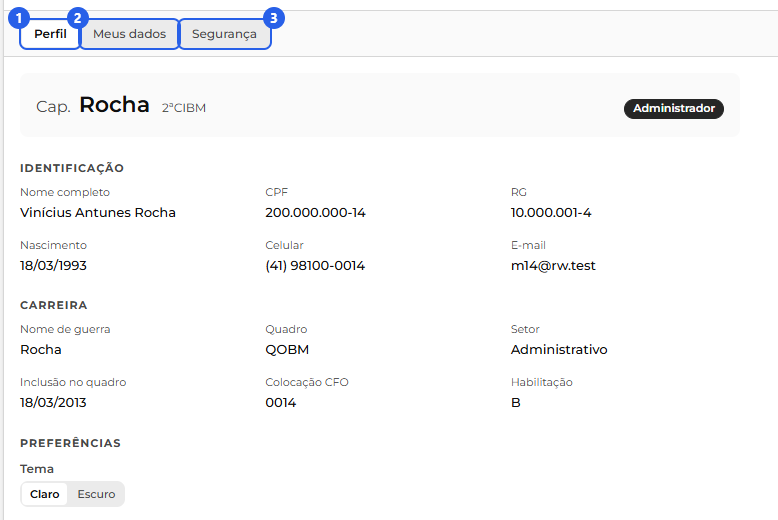
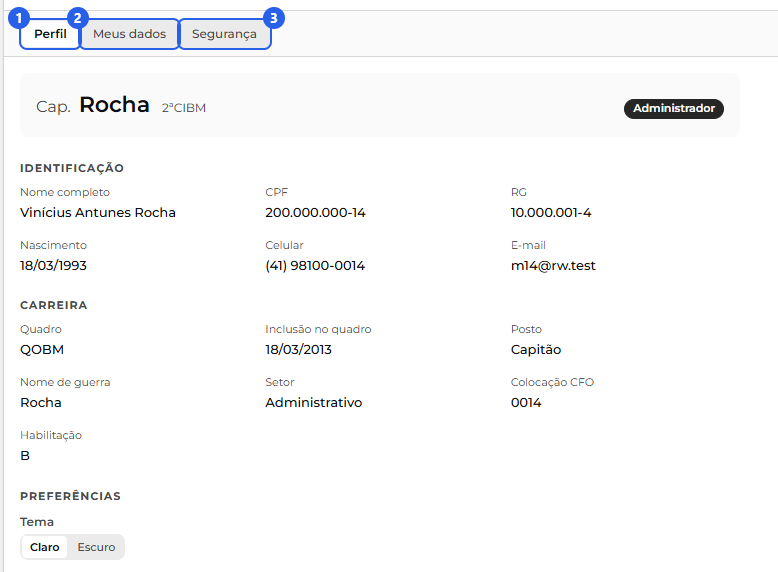
1

diff --git a/manual.html b/manual.html
@@ -392,7 +392,7 @@
                 </figcaption>
               </figure>
               <p>Ao confirmar, a sua conta é criada e você já entra com o seu CPF e a senha. <strong>E-mail, celular e senha valem na hora.</strong> Se você corrigir qualquer outro dado (nome, RG, nascimento e afins), a mudança passa pela aprovação de um administrador antes de valer, como uma correção comum. <strong>Posto, lotação e promoções</strong> aparecem só para conferência: eles mudam por promoção e transferência, feitas pelo administrador.</p>
-              <p><strong>Cadastro novo (CPF fora do sistema).</strong> Quando o seu CPF ainda não existe no sistema, você preenche a ficha inteira: os <strong>dados pessoais</strong> (nome, CPF, RG, nascimento, CNH, celular e e-mail), os <strong>dados institucionais</strong> (tipo, posto ou graduação, nome de guerra, <strong>inclusão no quadro</strong>, colocação por antiguidade, setor e a lotação, na mesma árvore usada no resto do sistema) e a <strong>senha</strong>.</p>
+              <p><strong>Cadastro novo (CPF fora do sistema).</strong> Quando o seu CPF ainda não existe no sistema, você preenche a ficha inteira: os <strong>dados pessoais</strong> (nome, CPF, RG, nascimento, CNH, celular e e-mail), os <strong>dados institucionais</strong> (tipo, <strong>inclusão no quadro</strong>, posto ou graduação, nome de guerra, colocação por antiguidade, setor e a lotação, na mesma árvore usada no resto do sistema) e a <strong>senha</strong>.</p>
               <p class="manual-nota"><strong>Inclusão no quadro.</strong> Informe a data em que você entrou no seu <strong>quadro atual</strong>, de praças ou de oficiais. Não é a data de entrada na corporação: quem foi praça e hoje é oficial informa a data de entrada no quadro de oficiais. Essa data vai até o dia da primeira promoção do quadro, e o sistema confere a ordem das datas.</p>
               <p>Ao enviar, o sistema confirma com "Cadastro enviado. Um administrador vai analisar." e volta para a tela de entrada. Esse cadastro vira um pedido, e o acesso só é liberado quando um administrador aprova.</p>
               <p>Até a aprovação, ao tentar entrar você vê "Seu cadastro está aguardando a aprovação de um administrador.", o sinal de que o pedido chegou e está na fila. Assim que for aprovado, você entra com o seu documento e a senha que escolheu.</p>
@@ -1083,7 +1083,7 @@
                 </figcaption>
               </figure>
               <p><strong>A ficha do militar.</strong> Um clique no card abre a ficha no painel à direita, com o grau e o nome de guerra no topo e o nome completo logo abaixo.</p>
-              <p>Ela tem duas abas: <strong>Dados</strong>, com os dados pessoais (nome completo, CPF, RG, idade, nascimento, CNH, celular e e-mail), e <strong>Carreira</strong>, com os dados institucionais (posto, setor, inclusão no quadro, colocação no curso de formação (CFP, CFO ou CHOE), antiguidade, lotação e situação) e o histórico de <strong>Promoções</strong> e <strong>Transferências</strong>, que abrem ao clicar. Qualquer pessoa consulta a ficha; editar é tarefa do administrador.</p>
+              <p>Ela tem duas abas: <strong>Dados</strong>, com os dados pessoais (nome completo, CPF, RG, idade, nascimento, CNH, celular e e-mail), e <strong>Carreira</strong>, com os dados institucionais (quadro, inclusão no quadro, posto, nome de guerra, setor, colocação no curso de formação (CFP, CFO ou CHOE), antiguidade, lotação e situação) e o histórico de <strong>Promoções</strong> e <strong>Transferências</strong>, que abrem ao clicar. Qualquer pessoa consulta a ficha; editar é tarefa do administrador.</p>
               <p>Em <strong>Promoções</strong>, cada data aparece com a abreviação da graduação (Sd., Cb. e assim por diante), só as do quadro atual.</p>
               <p><strong>A antiguidade.</strong> O sistema define a antiguidade de forma automática. Ele mantém uma lista única, do mais antigo (1) ao mais moderno, e compara os militares pelos critérios abaixo, nesta ordem. Quando dois empatam num critério, decide o seguinte.</p>
               <figure class="manual-diagrama manual-ordem">
@@ -1112,7 +1112,7 @@
               <div class="manual-admin manual-zona-admin">
                 <h3 id="cadastrar-efetivo">Cadastrar o efetivo e liberar acesso <span class="manual-selo-admin">Apenas administradores</span></h3>
                 <p>Para incluir um militar, abra <strong>Usuários</strong> e clique em <strong>Novo usuário</strong>, no topo da lista. O cadastro abre no painel à direita.</p>
-                <p>Você preenche os <strong>dados pessoais</strong> (nome, CPF, RG, nascimento, CNH e celular) e os <strong>dados institucionais</strong> (tipo, posto ou graduação, nome de guerra, inclusão no quadro, colocação, setor e lotação). Ao escolher o posto, o sistema pede também as <strong>datas de promoção</strong> de cada graduação. Essas datas, a inclusão no quadro e a colocação definem a posição do militar na <strong>antiguidade</strong>, que o sistema calcula sozinho.</p>
+                <p>Você preenche os <strong>dados pessoais</strong> (nome, CPF, RG, nascimento, CNH e celular) e os <strong>dados institucionais</strong> (tipo, inclusão no quadro, posto ou graduação, nome de guerra, colocação, setor e lotação). Ao escolher o posto, o sistema pede também as <strong>datas de promoção</strong> de cada graduação. Essas datas, a inclusão no quadro e a colocação definem a posição do militar na <strong>antiguidade</strong>, que o sistema calcula sozinho.</p>
                 <p class="manual-nota"><strong>Inclusão no quadro:</strong> a data de entrada no quadro atual do militar, de praças ou de oficiais, e não a de entrada na corporação. Ela vai até o dia da primeira promoção do quadro.</p>
                 <p>O <strong>e-mail é opcional</strong>: a ficha pode existir só para a escala funcionar, e o militar informa o próprio e-mail quando for criar o acesso.</p>
                 <figure class="manual-figura">
@@ -1187,7 +1187,7 @@
                   </figcaption>
                 </figure>
                 <p><strong>Dar baixa.</strong> No fim da aba, o bloco <strong>Dar baixa do sistema</strong> traz a data <strong>A partir de</strong> e o botão <strong>Dar baixa</strong>. A confirmação mostra o nome e o CPF e avisa das <strong>trocas e folgas que serão canceladas</strong>. O militar passa a "Inativo" e sai do efetivo ativo, reaparecendo só com o filtro <strong>Inativos</strong>. Para um militar já inativo, no lugar dessas ações aparece <strong>Readmitir ao efetivo</strong>, com uma data, que o traz de volta.</p>
-                <p><strong>Ajustar os dados da ficha.</strong> No mesmo modo Editar, a aba <strong>Dados</strong> deixa mudar os dados pessoais e a aba <strong>Carreira</strong>, os institucionais (nome de guerra, setor, inclusão no quadro e colocação). O <strong>CPF</strong> não muda, e o <strong>grau</strong> e a <strong>lotação</strong> também não se editam aqui, porque mudam por promoção e transferência.</p>
+                <p><strong>Ajustar os dados da ficha.</strong> No mesmo modo Editar, a aba <strong>Dados</strong> deixa mudar os dados pessoais e a aba <strong>Carreira</strong>, os institucionais (inclusão no quadro, nome de guerra, setor e colocação). O <strong>CPF</strong> não muda, e o <strong>grau</strong> e a <strong>lotação</strong> também não se editam aqui, porque mudam por promoção e transferência.</p>
                 <p>Ao <strong>Salvar</strong>, o sistema grava e mostra o resumo. Se você alterar a <strong>CNH</strong>, ele pede uma data para recalcular a distribuição, já que a CNH decide quem pode ser condutor.</p>
                 <h3 id="aprovacoes">Aprovar cadastros e correções <span class="manual-selo-admin">Apenas administradores</span></h3>
                 <p>Em <strong>Usuários</strong>, a aba <strong>Aprovações</strong> reúne o que espera a sua decisão sobre pessoas. O número na aba conta os pendentes, e a tela traz duas filas: <strong>Cadastros</strong> e <strong>Correções</strong>.</p>

diff --git a/perfil.html b/perfil.html
@@ -69,20 +69,24 @@
         <span class="rotulo-secao">Carreira</span>
         <div class="perfil-grade">
           <div class="perfil-dado">
-            <span class="perfil-dado-rotulo">Nome de guerra</span>
-            <span class="perfil-dado-valor" id="perfil-ver-nome-guerra"></span>
-          </div>
-          <div class="perfil-dado">
             <span class="perfil-dado-rotulo">Quadro</span>
             <span class="perfil-dado-valor" id="perfil-ver-quadro"></span>
           </div>
           <div class="perfil-dado">
-            <span class="perfil-dado-rotulo">Setor</span>
-            <span class="perfil-dado-valor" id="perfil-ver-setor"></span>
-          </div>
-          <div class="perfil-dado">
             <span class="perfil-dado-rotulo">Inclusão no quadro</span>
             <span class="perfil-dado-valor" id="perfil-ver-inclusao"></span>
+          </div>
+          <div class="perfil-dado">
+            <span class="perfil-dado-rotulo">Posto</span>
+            <span class="perfil-dado-valor" id="perfil-ver-posto"></span>
+          </div>
+          <div class="perfil-dado">
+            <span class="perfil-dado-rotulo">Nome de guerra</span>
+            <span class="perfil-dado-valor" id="perfil-ver-nome-guerra"></span>
+          </div>
+          <div class="perfil-dado">
+            <span class="perfil-dado-rotulo">Setor</span>
+            <span class="perfil-dado-valor" id="perfil-ver-setor"></span>
           </div>
           <div class="perfil-dado">
             <span class="perfil-dado-rotulo" id="perfil-ver-colocacao-rotulo">Colocação</span>
@@ -163,6 +167,12 @@
         <span class="rotulo-secao">Carreira</span>
         <div class="perfil-formulario">
           <label class="campo">
+            <span class="campo-rotulo">Inclusão no quadro</span>
+            <input class="campo-entrada" id="perfil-f-inclusao" data-campo="data_de_inclusao" data-formato="data" type="text" inputmode="numeric" maxlength="10" placeholder="DD/MM/AAAA" autocomplete="off" />
+            <span class="campo-ajuda">Data de entrada no seu quadro atual (praças ou oficiais), não a data de entrada na corporação.</span>
+            <span class="campo-erro-texto"></span>
+          </label>
+          <label class="campo">
             <span class="campo-rotulo">Nome de guerra</span>
             <input class="campo-entrada" id="perfil-f-nome-guerra" data-campo="nome_de_guerra" data-formato="guerra" type="text" maxlength="40" autocomplete="off" />
             <span class="campo-erro-texto"></span>
@@ -181,12 +191,6 @@
             </div>
             <span class="campo-erro-texto"></span>
           </div>
-          <label class="campo">
-            <span class="campo-rotulo">Inclusão no quadro</span>
-            <input class="campo-entrada" id="perfil-f-inclusao" data-campo="data_de_inclusao" data-formato="data" type="text" inputmode="numeric" maxlength="10" placeholder="DD/MM/AAAA" autocomplete="off" />
-            <span class="campo-ajuda">Data de entrada no seu quadro atual (praças ou oficiais), não a data de entrada na corporação.</span>
-            <span class="campo-erro-texto"></span>
-          </label>
           <label class="campo">
             <span class="campo-rotulo" id="perfil-f-colocacao-rotulo">Colocação</span>
             <input class="campo-entrada" id="perfil-f-colocacao" data-campo="classificacao_cfo_cfp" data-formato="numero" type="text" inputmode="numeric" maxlength="4" placeholder="0000" autocomplete="off" />

diff --git a/criar-conta.html b/criar-conta.html
@@ -146,6 +146,12 @@
             </div>
             <span class="campo-erro-texto"></span>
           </div>
+          <label class="campo">
+            <span class="campo-rotulo">Inclusão no quadro</span>
+            <input class="campo-entrada" id="cc-inclusao" type="text" inputmode="numeric" maxlength="10" placeholder="dd/mm/aaaa" autocomplete="off" />
+            <span class="campo-ajuda">Data de entrada no seu quadro atual (praças ou oficiais), não a data de entrada na corporação.</span>
+            <span class="campo-erro-texto"></span>
+          </label>
           <div class="campo">
             <span class="campo-rotulo">Posto / Patente</span>
             <div class="dropdown">
@@ -160,12 +166,6 @@
           <label class="campo">
             <span class="campo-rotulo">Nome de guerra</span>
             <input class="campo-entrada" id="cc-nome-guerra" type="text" maxlength="40" placeholder="Ex.: Andrade" />
-            <span class="campo-erro-texto"></span>
-          </label>
-          <label class="campo">
-            <span class="campo-rotulo">Inclusão no quadro</span>
-            <input class="campo-entrada" id="cc-inclusao" type="text" inputmode="numeric" maxlength="10" placeholder="dd/mm/aaaa" autocomplete="off" />
-            <span class="campo-ajuda">Data de entrada no seu quadro atual (praças ou oficiais), não a data de entrada na corporação.</span>
             <span class="campo-erro-texto"></span>
           </label>
           <label class="campo">

diff --git a/usuarios.html b/usuarios.html
@@ -250,6 +250,12 @@
         </div>
         <span class="campo-erro-texto"></span>
       </div>
+      <label class="campo">
+        <span class="campo-rotulo">Inclusão no quadro</span>
+        <input class="campo-entrada" id="nu-inclusao" type="text" inputmode="numeric" maxlength="10" placeholder="dd/mm/aaaa" />
+        <span class="campo-ajuda">Data de entrada no quadro atual do militar (praças ou oficiais), não a data de entrada na corporação.</span>
+        <span class="campo-erro-texto"></span>
+      </label>
       <div class="campo">
         <span class="campo-rotulo">Posto / Patente</span>
         <div class="dropdown">
@@ -264,12 +270,6 @@
       <label class="campo">
         <span class="campo-rotulo">Nome de guerra</span>
         <input class="campo-entrada" id="nu-nome-guerra" type="text" maxlength="40" placeholder="Ex.: Andrade" />
-        <span class="campo-erro-texto"></span>
-      </label>
-      <label class="campo">
-        <span class="campo-rotulo">Inclusão no quadro</span>
-        <input class="campo-entrada" id="nu-inclusao" type="text" inputmode="numeric" maxlength="10" placeholder="dd/mm/aaaa" />
-        <span class="campo-ajuda">Data de entrada no quadro atual do militar (praças ou oficiais), não a data de entrada na corporação.</span>
         <span class="campo-erro-texto"></span>
       </label>
       <label class="campo">

diff --git a/js/index-perfil.js b/js/index-perfil.js
@@ -88,10 +88,11 @@
     preencher('perfil-ver-celular', celular);
     preencher('perfil-ver-email', pessoais.email);
 
-    preencher('perfil-ver-nome-guerra', institucionais.nome_de_guerra);
     preencher('perfil-ver-quadro', institucionais.quadro);
-    preencher('perfil-ver-setor', institucionais.tipo);
     preencher('perfil-ver-inclusao', RosterWork.data.isoParaBR(institucionais.data_de_inclusao));
+    preencher('perfil-ver-posto', institucionais.grau_nome);
+    preencher('perfil-ver-nome-guerra', institucionais.nome_de_guerra);
+    preencher('perfil-ver-setor', institucionais.tipo);
     preencher('perfil-ver-colocacao', institucionais.classificacao);
     /* o rótulo da colocação diz o curso (CFO, CHOE ou CFP), pelo quadro */
     var rotuloColocacao = C ? C.nomeColocacao(institucionais.quadro) : 'Colocação';

diff --git a/js/usuarios-painel.js b/js/usuarios-painel.js
@@ -112,10 +112,11 @@
   function montarInstitucionais(corpo) {
     var ins = (fichaAtual && fichaAtual.institucionais) || {};
     montarSecao(corpo, 'Dados institucionais', [
+      { rotulo: 'Quadro', valor: ins.quadro },
+      { rotulo: 'Inclusão no quadro', valor: formatarData(ins.data_de_inclusao) },
       { rotulo: 'Posto', valor: ins.grau_nome },
       { rotulo: 'Nome de guerra', valor: ins.nome_de_guerra },
       { rotulo: 'Setor', valor: ins.tipo },
-      { rotulo: 'Inclusão no quadro', valor: formatarData(ins.data_de_inclusao) },
       { rotulo: RosterWork.campos.nomeColocacao(ins.quadro), valor: formatarColocacao(ins.classificacao) },
       { rotulo: 'Antiguidade no sistema', valor: ins.antiguidade_sistema },
       { rotulo: 'Lotação', valor: textoLotacao(ins) },

diff --git a/js/usuarios-painel-editar.js b/js/usuarios-painel-editar.js
@@ -26,9 +26,9 @@
     { k: 'email', rotulo: 'Email', tipo: 'texto', max: 80, ph: 'nome@exemplo.com' }
   ];
   var INST = [
+    { k: 'data_de_inclusao', rotulo: 'Inclusão no quadro', tipo: 'data', max: 10, num: true, ph: 'dd/mm/aaaa', cal: true, ajuda: true },
     { k: 'nome_de_guerra', rotulo: 'Nome de guerra', tipo: 'texto', max: 40, ph: 'Ex.: Andrade' },
     { k: 'tipo', rotulo: 'Setor', tipo: 'selecao', opcoes: ['Operacional', 'Administrativo'] },
-    { k: 'data_de_inclusao', rotulo: 'Inclusão no quadro', tipo: 'data', max: 10, num: true, ph: 'dd/mm/aaaa', cal: true, ajuda: true },
     { k: 'classificacao', rotulo: 'Colocação', rotuloPorQuadro: true, tipo: 'numero', max: 4, num: true, ph: 'Ex.: 14' }
   ];
 

diff --git a/js/usuarios-cadastros.js b/js/usuarios-cadastros.js
@@ -111,10 +111,11 @@
     ]);
 
     secao(corpo, 'Dados institucionais', [
+      ['Quadro', c.quadro],
+      ['Inclusão no quadro', D.isoParaBR(c.data_de_inclusao)],
       ['Posto', c.grau_nome],
       ['Nome de guerra', c.nome_de_guerra],
       ['Setor', c.tipo],
-      ['Inclusão no quadro', D.isoParaBR(c.data_de_inclusao)],
       [C.nomeColocacao(c.quadro), c.classificacao],
       ['Lotação', c.lotacao_nome],
       ['Pedido em', D.isoParaBR(c.criado_em)]
